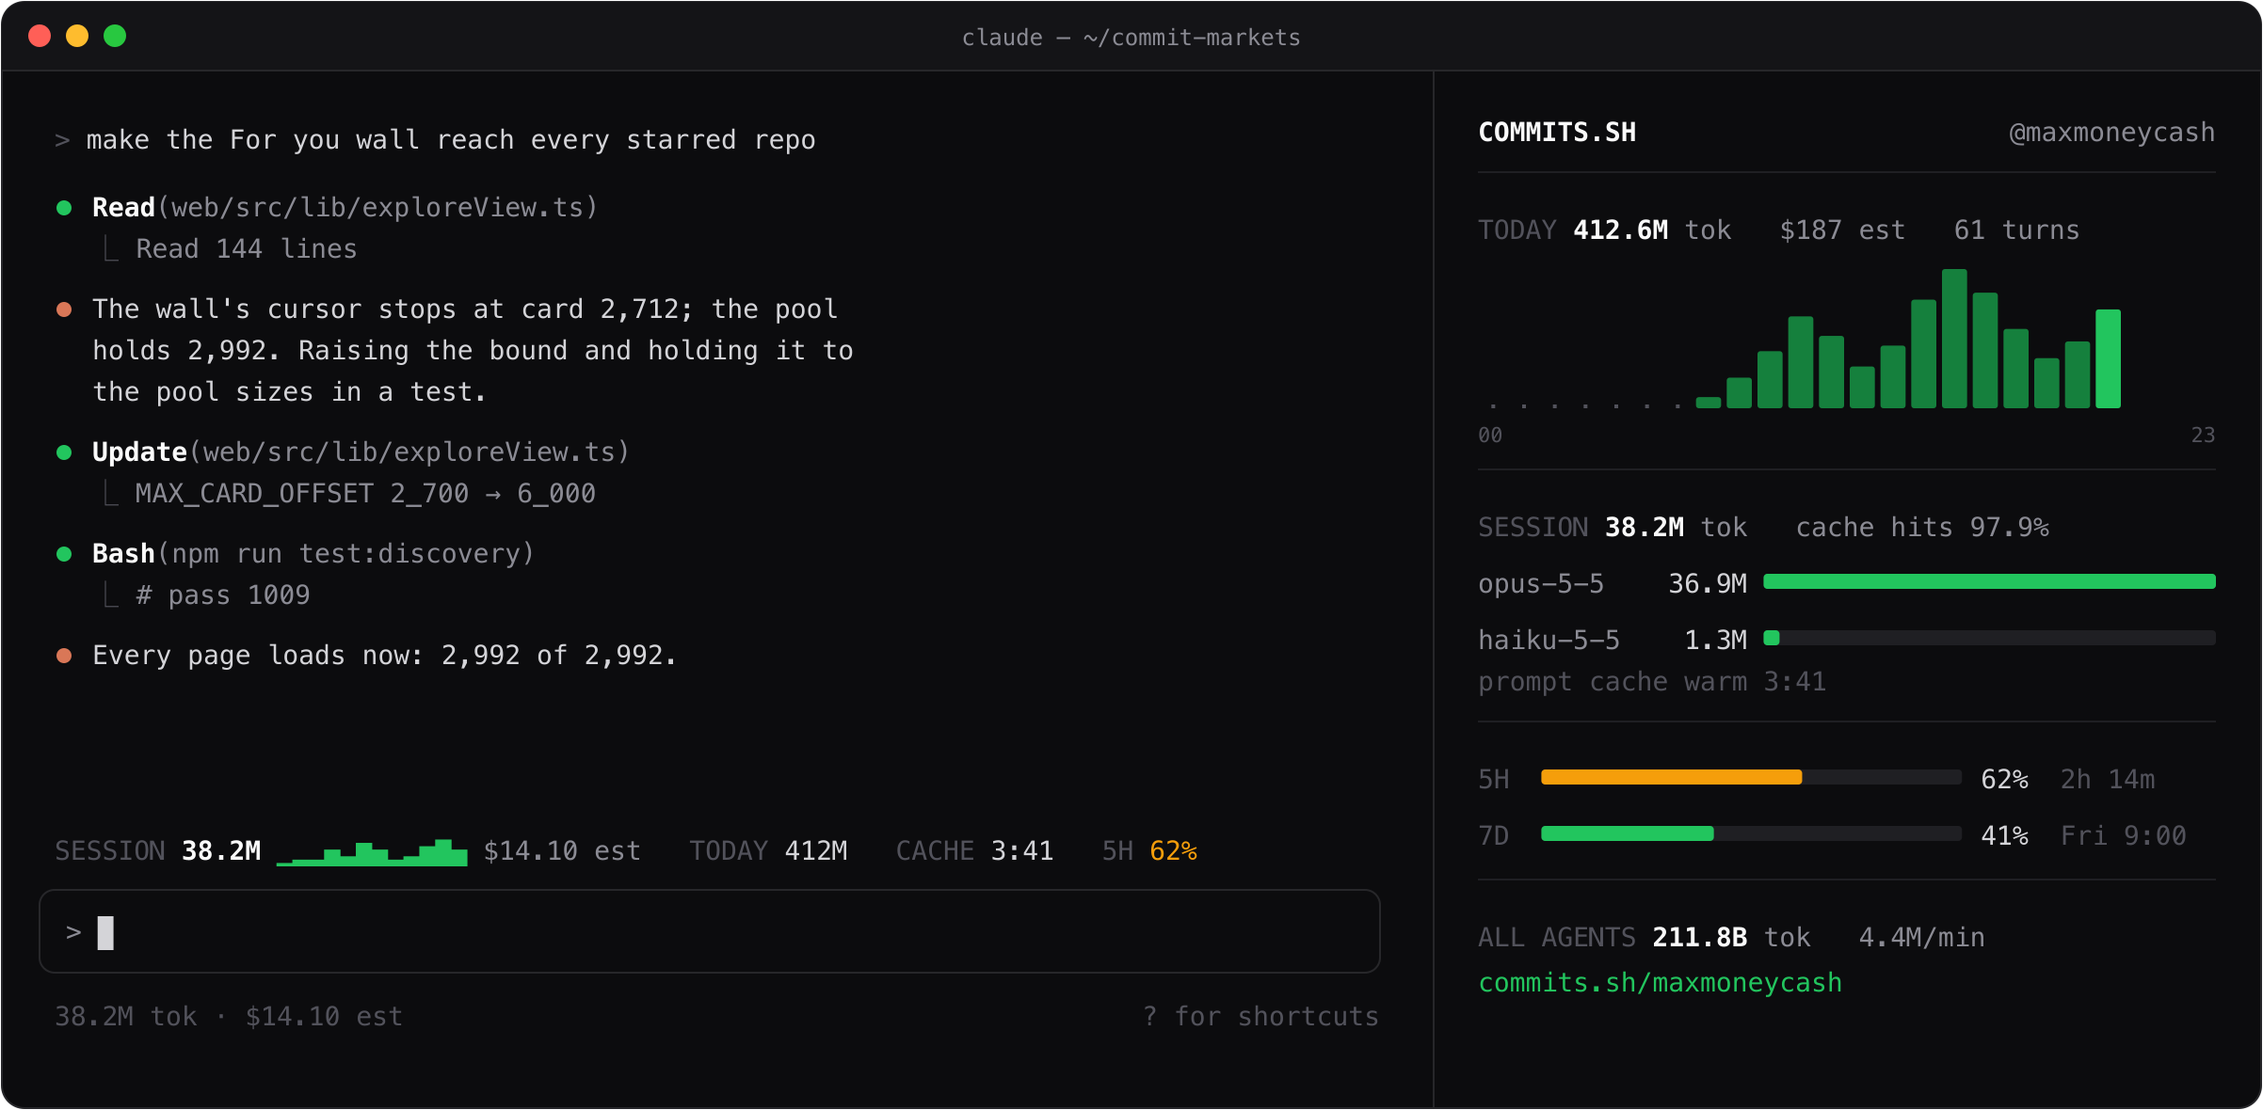
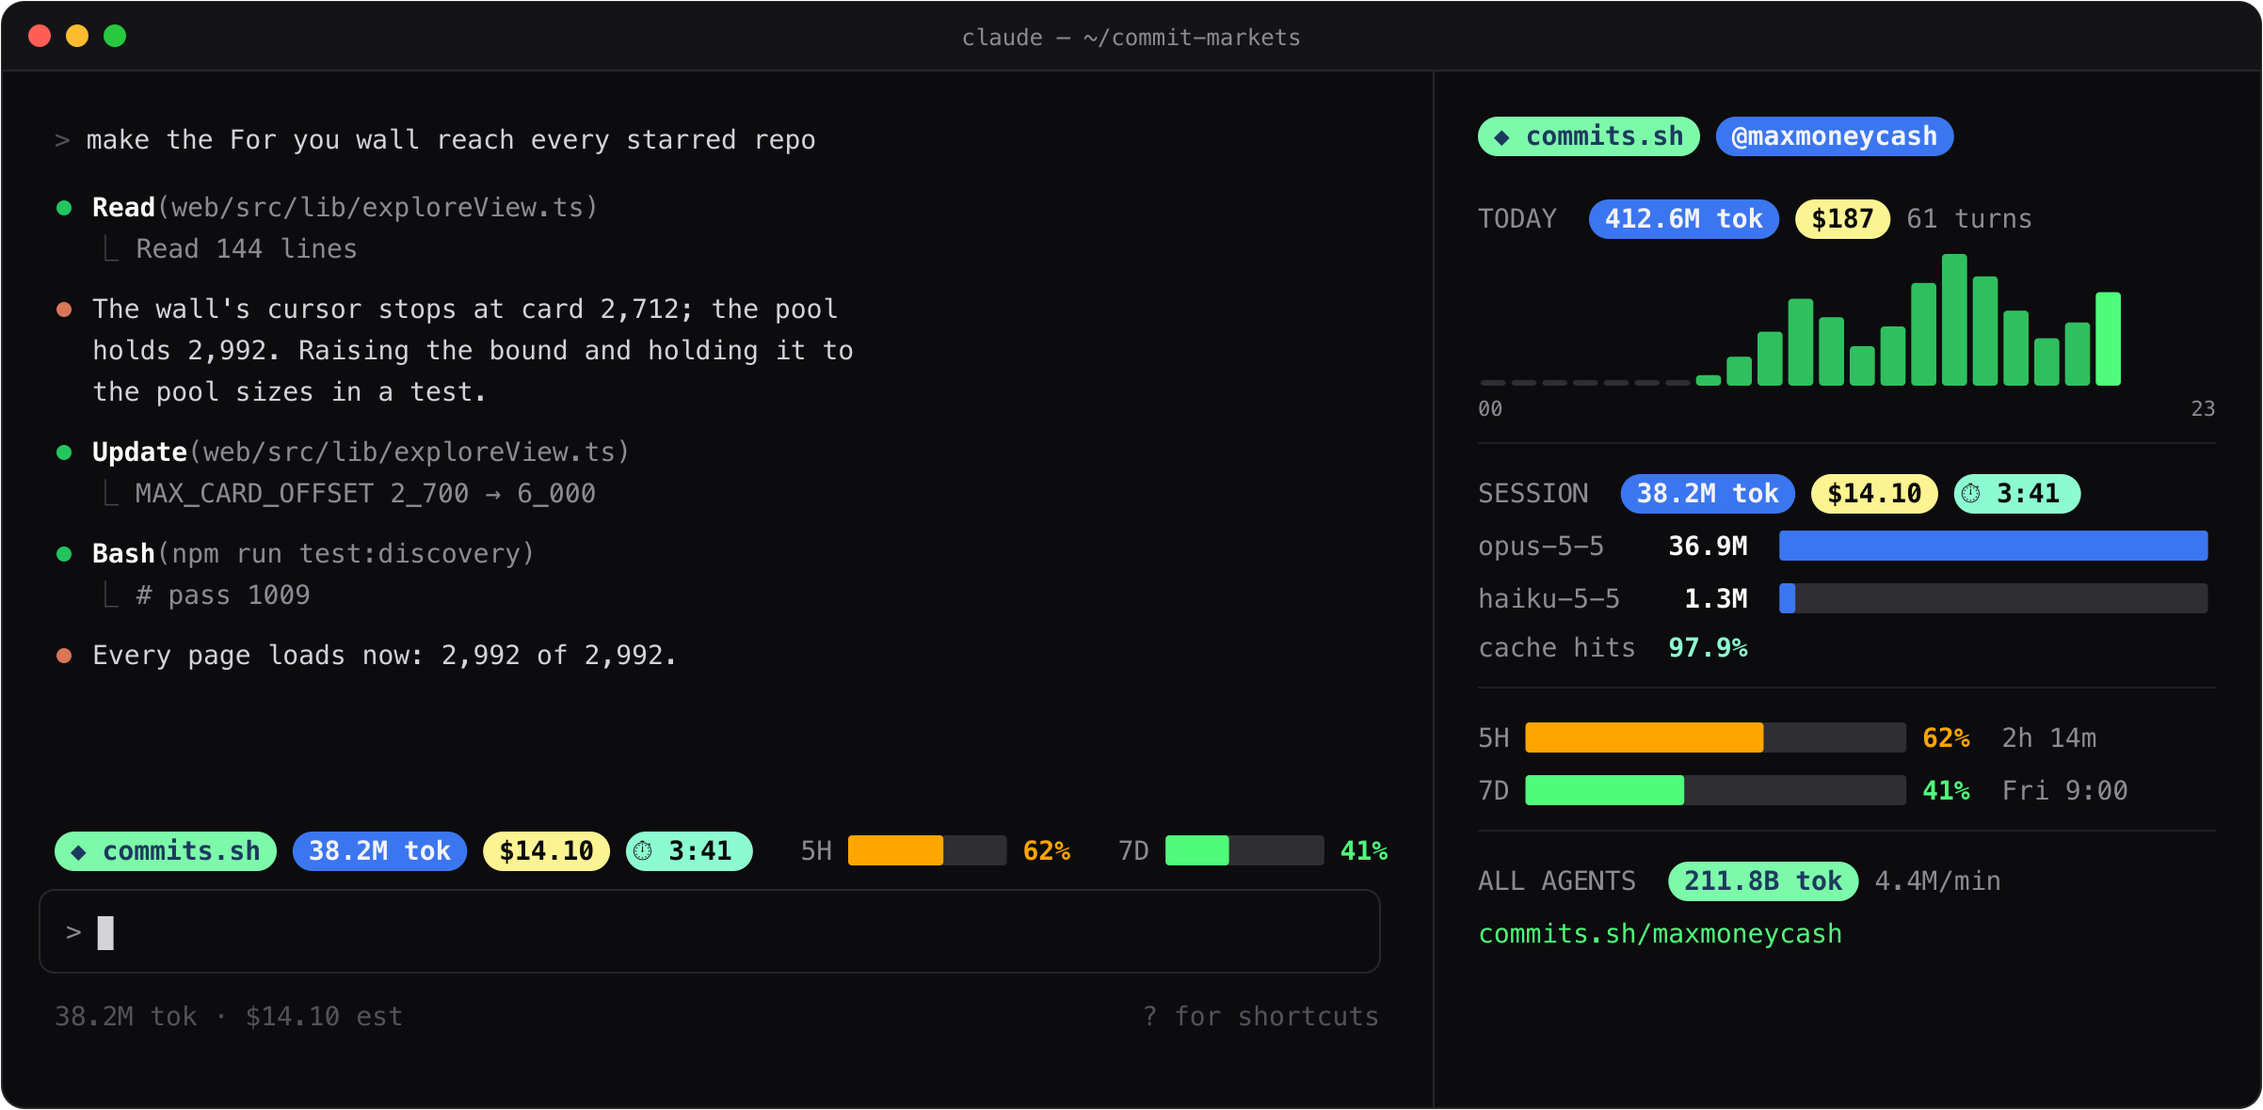
0.2.0: powerline HUD (filled pills, solid limit bars) and the pane in the same style

diff --git a/hooks/register.tsx b/hooks/register.tsx
@@ -11,8 +11,8 @@ import type { EngineInterface, Register, ThemeSetArgs } from 'claude-code'
 import type { PulseFigures, SessionFigures, TodayFigures } from '../types'
 import { makeColors } from './make-colors.js'
 import {
-  HANDLE, ago, bandSegments, cacheLeft, clockLabel, compact, dayKey, dollars, emptyShare, fitSegments,
-  hourCells, meter, modelName, readPulse, readShare, resetLabel, staleDayKeys, sumShares, tape, tokensOf, type DayShare,
+  HANDLE, PALETTE, ago, bandPieces, barCells, limitColor, cacheLeft, clockLabel, compact, dayKey, dollars, emptyShare, fitPieces,
+  hourCells, modelName, readPulse, readShare, resetLabel, staleDayKeys, sumShares, tape, tokensOf, type DayShare,
 } from './tape'
 
 const PANE = 'commits'
@@ -235,26 +235,41 @@ export const register: Register = (on) => {
     const s = await read($, session)
     const rest = await read($, others)
     const at = Math.max(await read($, now), s.lastAt ?? 0)
-    const segments = bandSegments({
+    const pieces = bandPieces({
       sessionTokens: s.tokens,
       turnTokens: s.turns,
       sessionUsd: s.usd,
       todayTokens: rest.tokens + ctx.share.tokens,
       cacheMs: cacheLeft(s.lastAt, s.ttlMs, at),
       fiveHourPct: s.fiveHour?.pct ?? null,
+      sevenDayPct: s.sevenDay?.pct ?? null,
       isWorking: e.props.isWorking,
     })
-    if (!segments) return next(e)
+    if (!pieces) return next(e)
     const { Box, Text } = $.ui.resolve(e)
-    const tone = (t?: string) => (t === 'live' ? 'success' : t === 'warn' ? 'warning' : t === 'danger' ? 'error' : undefined)
+    // One Text of runs: pills are cell backgrounds, bars solid blocks.
+    const fitted = fitPieces(pieces, e.props.bodyColumns)
     return (
-      <Box flexDirection="row" gap={3}>
-        {fitSegments(segments, e.props.bodyColumns).map((seg) => (
-          <Text key={seg.key} mono wrap="truncate">
-            <Text dimColor>{seg.label} </Text>
-            <Text color={tone(seg.tone)} dimColor={!seg.tone}>{seg.value}</Text>
-          </Text>
-        ))}
+      <Box flexDirection="row">
+        <Text mono wrap="truncate-end">
+          {fitted.map((piece, i) => {
+            const gap = i === 0 ? '' : piece.kind === 'pill' ? ' ' : '   '
+            if (piece.kind === 'pill') {
+              return <Text key={piece.key}>{gap}<Text bold color={piece.fg} backgroundColor={piece.bg}>{piece.text}</Text></Text>
+            }
+            if (piece.kind === 'bar') {
+              const { filled, empty } = barCells(piece.pct, piece.cells)
+              return (
+                <Text key={piece.key}>
+                  {gap}<Text color={PALETTE.dim}>{piece.label} </Text>
+                  <Text color={piece.color}>{'█'.repeat(filled)}</Text><Text color={PALETTE.track}>{'█'.repeat(empty)}</Text>
+                  <Text bold color={piece.color}> {Math.round(piece.pct)}%</Text>
+                </Text>
+              )
+            }
+            return <Text key={piece.key}>{gap}<Text color={PALETTE.dim}>{piece.label} </Text><Text bold>{piece.value}</Text></Text>
+          })}
+        </Text>
       </Box>
     )
   })
@@ -270,68 +285,70 @@ export const register: Register = (on) => {
     const at = Math.max(await read($, now), s.lastAt ?? 0)
     const today = sumShares([rest, ctx.share])
     const hour = new Date(at || Date.now()).getHours()
-    const cols = Math.max(30, Math.min(72, e.viewport?.columns ?? 60))
-    const rule = <Text dimColor>{'─'.repeat(cols)}</Text>
-    const label = (text: string) => <Text dimColor mono>{text}</Text>
+    const cols = Math.max(32, Math.min(64, e.viewport?.columns ?? 56))
+    const pill = (key: string, text: string, bg: string, fg: string = PALETTE.ink) => <Text key={key} bold color={fg} backgroundColor={bg}>{` ${text} `}</Text>
+    const dim = (text: string) => <Text color={PALETTE.dim}>{text}</Text>
+    const rule = <Text color={PALETTE.track}>{'─'.repeat(cols)}</Text>
+    const bar = (key: string, pct: number, cells: number, color: string) => {
+      const { filled, empty } = barCells(pct, cells)
+      return <Text key={key}><Text color={color}>{'█'.repeat(filled)}</Text><Text color={PALETTE.track}>{'█'.repeat(empty)}</Text></Text>
+    }
     const models = Object.entries(s.models).sort((a, b) => b[1] - a[1]).slice(0, 4)
     const top = models[0]?.[1] ?? 0
     const hitRate = s.input > 0 ? (s.cacheRead / s.input) * 100 : null
-    const limitRow = (name: string, w: SessionFigures['fiveHour']) => w && (
-      <Text mono>
-        <Text dimColor>{name} </Text>
-        <Text color={w.pct >= 80 ? 'error' : w.pct >= 50 ? 'warning' : undefined}>{meter(w.pct / 100, 20)}</Text>
-        <Text> {Math.round(w.pct)}%</Text>
-        <Text dimColor>{resetLabel(w.resetsAt, at) ? `   resets ${resetLabel(w.resetsAt, at)}` : ''}</Text>
+    const cache = cacheLeft(s.lastAt, s.ttlMs, at)
+    const limit = (label: string, w: SessionFigures['fiveHour']) => w && (
+      <Text key={label} mono>
+        {dim(`${label} `)}{bar(`${label}-bar`, w.pct, 24, limitColor(w.pct))}
+        <Text bold color={limitColor(w.pct)}>{` ${Math.round(w.pct)}%`}</Text>
+        {resetLabel(w.resetsAt, at) ? dim(`  ${resetLabel(w.resetsAt, at)}`) : null}
       </Text>
     )
-    const cache = cacheLeft(s.lastAt, s.ttlMs, at)
 
     return (
-      <Box flexDirection="column" gap={0}>
-        <Box flexDirection="row" justifyContent="space-between">
-          <Text mono bold>COMMITS.SH</Text>
-          {who ? <Text dimColor mono>@{who}</Text> : null}
-        </Box>
-        {rule}
+      <Box flexDirection="column">
         <Text mono>
-          {label('TODAY · CLAUDE CODE  ')}
-          <Text bold>{compact(today.tokens)}</Text>
-          <Text dimColor> tok   {dollars(today.usd)} est   {today.turns} turns</Text>
+          {pill('brand', '◆ commits.sh', PALETTE.mint, PALETTE.navy)}
+          {who ? <Text> {pill('who', `@${who}`, PALETTE.blue, PALETTE.white)}</Text> : null}
+        </Text>
+        <Text> </Text>
+        <Text mono>
+          {dim('TODAY  ')}{pill('today', `${compact(today.tokens)} tok`, PALETTE.blue, PALETTE.white)}{' '}
+          {pill('today-usd', dollars(today.usd), PALETTE.yellow)}{dim(`  ${today.turns} turns`)}
         </Text>
         <Text mono>
           {hourCells(today.hours, hour).map((cell, i) => (
-            <Text key={`h${i}`} color={cell.isSpent ? 'success' : undefined} dimColor={!cell.isSpent}>{cell.char}</Text>
+            <Text key={`h${i}`} color={cell.isSpent ? (i === hour ? PALETTE.green : '#2fbf5f') : PALETTE.track}>{cell.isSpent ? cell.char : cell.char === '·' ? '▁' : ' '}</Text>
           ))}
         </Text>
-        <Text dimColor mono>{'00'.padEnd(Math.min(24, cols) - 2)}23</Text>
+        <Text mono>{dim('00'.padEnd(22))}{dim('23')}</Text>
         {rule}
         <Text mono>
-          {label('SESSION  ')}
-          <Text bold>{compact(s.tokens)}</Text>
-          <Text dimColor> tok   {s.usd !== null ? `${dollars(s.usd)} est` : ''}{hitRate !== null ? `   cache hits ${hitRate.toFixed(1)}%` : ''}</Text>
+          {dim('SESSION  ')}{pill('session', `${compact(s.tokens)} tok`, PALETTE.blue, PALETTE.white)}
+          {s.usd !== null ? <Text> {pill('session-usd', dollars(s.usd), PALETTE.yellow)}</Text> : null}
+          {cache !== null ? <Text> {pill('cache', cache > 0 ? `⏱ ${clockLabel(cache)}` : '⏱ cold', cache <= 0 ? PALETTE.red : cache < 60_000 ? PALETTE.orange : PALETTE.teal)}</Text> : null}
         </Text>
-        {s.turns.length > 1 ? <Text mono color="success">{tape(s.turns.slice(-Math.min(cols, 60)))}</Text> : null}
         {models.map(([name, tokens]) => (
           <Text key={name} mono>
-            <Text dimColor>{name.padEnd(14).slice(0, 14)} {compact(tokens).padStart(6)}  </Text>
-            <Text>{meter(top > 0 ? tokens / top : 0, Math.max(8, cols - 24))}</Text>
+            {dim(name.padEnd(12).slice(0, 12))}<Text bold>{compact(tokens).padStart(6)}</Text>{'  '}
+            {bar(`${name}-bar`, top > 0 ? (tokens / top) * 100 : 0, Math.max(10, cols - 22), PALETTE.blue)}
           </Text>
         ))}
-        {cache !== null ? <Text dimColor mono>prompt cache {cache > 0 ? `warm ${clockLabel(cache)}` : 'cold'}</Text> : null}
+        {hitRate !== null ? <Text mono>{dim('cache hits  ')}<Text bold color={PALETTE.teal}>{`${hitRate.toFixed(1)}%`}</Text></Text> : null}
         {s.fiveHour || s.sevenDay ? rule : null}
-        {limitRow('5H', s.fiveHour)}
-        {limitRow('7D', s.sevenDay)}
+        {limit('5H', s.fiveHour)}
+        {limit('7D', s.sevenDay)}
         {rule}
         {who && p ? (
           <Text mono>
-            {label('ALL AGENTS  ')}
-            <Text bold>{compact(p.total)}</Text>
-            <Text dimColor> tok{p.rate !== null && p.rate > 0 ? `   ${compact(p.rate)}/min` : ''}{p.ageSec !== null ? `   ${ago(p.ageSec + Math.max(0, (at - p.at) / 1000))}` : ''}</Text>
+            {dim('ALL AGENTS  ')}{pill('all', `${compact(p.total)} tok`, PALETTE.mint, PALETTE.navy)}
+            {p.rate !== null && p.rate > 0 ? dim(`  ${compact(p.rate)}/min`) : null}
+            {p.ageSec !== null ? dim(`  ${ago(p.ageSec + Math.max(0, (at - p.at) / 1000))}`) : null}
           </Text>
         ) : null}
         {who
           ? <Link href={`https://commits.sh/${who}`}>commits.sh/{who}</Link>
-          : <Text dimColor mono>commits.sh · /commits connect &lt;handle&gt;</Text>}
+          : <Text mono>{dim('connect: ')}<Text bold>/commits connect &lt;handle&gt;</Text></Text>}
       </Box>
     )
   })

diff --git a/hooks/tape.ts b/hooks/tape.ts
@@ -68,8 +68,20 @@ export function clockLabel(ms: number): string {
   return `${Math.floor(seconds / 60)}:${String(seconds % 60).padStart(2, '0')}`
 }
 
-/** A piece of the band: what it says and how it paints. Lower `drop` goes first. */
-export type Segment = { key: string; label: string; value: string; tone?: 'live' | 'warn' | 'danger'; drop: number }
+// ---- the band: powerline pills, solid bars ------------------------------------
+// Max's pick (Nov 26, direction B): filled pills in his statusline's palette,
+// then solid 5H / 7D bars, then today. Every color is a raw hex the terminal
+// draws in truecolor; the desktop app paints the same spans.
+
+export const PALETTE = {
+  mint: '#7df9aa', navy: '#1c3a5e', blue: '#3b76f0', white: '#f4f4f5', yellow: '#fcf392', teal: '#8dfbd2',
+  ink: '#09090b', green: '#50fa7b', orange: '#ffa500', red: '#ff4646', track: '#2e2e33', dim: '#8b8b94',
+} as const
+
+export type Pill = { kind: 'pill'; key: string; text: string; fg: string; bg: string; drop: number }
+export type BarPiece = { kind: 'bar'; key: string; label: string; pct: number; color: string; cells: number; drop: number }
+export type Plain = { kind: 'plain'; key: string; label: string; value: string; drop: number }
+export type Piece = Pill | BarPiece | Plain
 
 export type BandFigures = {
   sessionTokens: number
@@ -78,43 +90,68 @@ export type BandFigures = {
   todayTokens: number | null
   cacheMs: number | null
   fiveHourPct: number | null
+  sevenDayPct: number | null
   isWorking: boolean
 }
 
 export const TAPE_TURNS = 16
-const GAP = 3
+const GAP = 1
+const BAR_GAP = 3
+export const BAR_CELLS = 16
 
-/** The band's segments, most important first; null before the first turn. */
-export function bandSegments(f: BandFigures): Segment[] | null {
+/** A limit's color: green, orange past half, red past 80%. */
+export function limitColor(pct: number): string {
+  return pct >= 80 ? PALETTE.red : pct >= 50 ? PALETTE.orange : PALETTE.green
+}
+
+/** The band's pieces in reading order; null before the first turn. `drop`
+ * is the order narrow columns give them up (lowest first); the brand and
+ * the session never go. */
+export function bandPieces(f: BandFigures): Piece[] | null {
   if (f.sessionTokens <= 0 && f.turnTokens.length === 0) return null
-  const turns = f.turnTokens.slice(-TAPE_TURNS)
-  const session = [compact(f.sessionTokens), turns.length > 1 ? tape(turns) : '', f.sessionUsd !== null ? `${dollars(f.sessionUsd)} est` : '']
-    .filter(Boolean).join(' ')
-  const out: Segment[] = [{ key: 'session', label: 'SESSION', value: session, tone: f.isWorking ? 'live' : undefined, drop: 99 }]
-  if (f.todayTokens !== null && f.todayTokens > f.sessionTokens) out.push({ key: 'today', label: 'TODAY', value: compact(f.todayTokens), drop: 1 })
+  const out: Piece[] = [
+    { kind: 'pill', key: 'brand', text: ' ◆ commits.sh ', fg: PALETTE.navy, bg: PALETTE.mint, drop: 99 },
+    { kind: 'pill', key: 'session', text: ` ${compact(f.sessionTokens)} tok `, fg: PALETTE.white, bg: PALETTE.blue, drop: 98 },
+  ]
+  if (f.sessionUsd !== null) out.push({ kind: 'pill', key: 'usd', text: ` ${dollars(f.sessionUsd)} `, fg: PALETTE.ink, bg: PALETTE.yellow, drop: 5 })
   if (f.cacheMs !== null && !f.isWorking) {
-    out.push(f.cacheMs <= 0
-      ? { key: 'cache', label: 'CACHE', value: 'COLD', tone: 'warn', drop: 2 }
-      : { key: 'cache', label: 'CACHE', value: clockLabel(f.cacheMs), tone: f.cacheMs < 60_000 ? 'warn' : undefined, drop: 2 })
+    const cold = f.cacheMs <= 0
+    const late = !cold && f.cacheMs < 60_000
+    out.push({
+      kind: 'pill', key: 'cache', text: cold ? ' ⏱ cold ' : ` ⏱ ${clockLabel(f.cacheMs)} `,
+      fg: PALETTE.ink, bg: cold ? PALETTE.red : late ? PALETTE.orange : PALETTE.teal, drop: 4,
+    })
   }
-  if (f.fiveHourPct !== null && f.fiveHourPct >= 50) {
-    out.push({ key: 'five', label: '5H', value: `${Math.round(f.fiveHourPct)}%`, tone: f.fiveHourPct >= 80 ? 'danger' : 'warn', drop: 0 })
-  }
+  if (f.fiveHourPct !== null) out.push({ kind: 'bar', key: 'five', label: '5H', pct: f.fiveHourPct, color: limitColor(f.fiveHourPct), cells: BAR_CELLS, drop: 3 })
+  if (f.sevenDayPct !== null) out.push({ kind: 'bar', key: 'seven', label: '7D', pct: f.sevenDayPct, color: limitColor(f.sevenDayPct), cells: BAR_CELLS, drop: 2 })
+  if (f.todayTokens !== null && f.todayTokens > f.sessionTokens) out.push({ kind: 'plain', key: 'today', label: 'today', value: compact(f.todayTokens), drop: 1 })
   return out
 }
 
-const width = (s: Segment) => s.label.length + 1 + [...s.value].length
+/** Cells a piece takes, with the gap before it. */
+export function pieceWidth(p: Piece, isFirst: boolean): number {
+  const body = p.kind === 'pill' ? [...p.text].length
+    : p.kind === 'bar' ? p.label.length + 1 + p.cells + 1 + `${Math.round(p.pct)}%`.length
+    : p.label.length + 1 + [...p.value].length
+  return body + (isFirst ? 0 : p.kind === 'pill' ? GAP : BAR_GAP)
+}
 
-/** The segments that fit `columns`, dropping the least important first. */
-export function fitSegments(segments: readonly Segment[], columns: number): Segment[] {
-  const kept = [...segments]
-  const total = () => kept.reduce((sum, s) => sum + width(s), 0) + GAP * Math.max(0, kept.length - 1)
-  while (kept.length > 1 && total() > columns) {
+/** The pieces that fit `columns`, giving up the lowest `drop` first. */
+export function fitPieces(pieces: readonly Piece[], columns: number): Piece[] {
+  const kept = [...pieces]
+  const total = () => kept.reduce((sum, p, i) => sum + pieceWidth(p, i === 0), 0)
+  while (kept.length > 2 && total() > columns) {
     let at = 0
     for (let i = 1; i < kept.length; i++) if (kept[i]!.drop < kept[at]!.drop) at = i
     kept.splice(at, 1)
   }
   return kept
+}
+
+/** A solid bar: filled cells and track cells. */
+export function barCells(pct: number, cells: number): { filled: number; empty: number } {
+  const filled = Math.max(0, Math.min(cells, Math.round((Math.max(0, pct) / 100) * cells)))
+  return { filled, empty: cells - filled }
 }
 
 // ---- the day ledger ----------------------------------------------------------

diff --git a/tests/commits.test.tsx b/tests/commits.test.tsx
@@ -57,18 +57,22 @@ test('the band shows the session tape, est. dollars and the cache countdown, on 
     const ui = await $.ui.mount({ ...BAND, surface })
     const found = await ui.findAll({ type: 'Text' })
     const all = found.map((t) => t.text).join(' ')
-    expect(all).toContain('SESSION 6M')
-    expect(all).toContain('$14.10 est')
-    expect(all).toMatch(/CACHE \d:\d\d/)
-    expect(all).toContain('5H 62%')
+    expect(all).toContain('◆ commits.sh')
+    expect(all).toContain('6M tok')
+    expect(all).toContain('$14.10')
+    expect(all).toMatch(/⏱ \d:\d\d/)
+    expect(all).toMatch(/5H █+ 62%/)
     await ui.unmount()
   }
 
-  // A narrow column drops the limit first, then the cache; never the session.
-  const narrow = await $.ui.mount({ ...BAND, surface: 'terminal', props: { ...BAND.props, bodyColumns: 34 } })
+  // A narrow column gives up today, 7D, 5H, the cache and the dollars, in that
+  // order; the brand and the session stay.
+  const narrow = await $.ui.mount({ ...BAND, surface: 'terminal', props: { ...BAND.props, bodyColumns: 30 } })
   const thin = (await narrow.findAll({ type: 'Text' })).map((t) => t.text).join(' ')
-  expect(thin).toContain('SESSION 6M')
+  expect(thin).toContain('◆ commits.sh')
+  expect(thin).toContain('6M tok')
   expect(thin).not.toContain('5H')
+  expect(thin).not.toContain('⏱')
   await narrow.unmount()
 })
 
@@ -113,10 +117,12 @@ test('the pane draws today, the session, limits and the connect hint, on every s
     const ui = await $.ui.mount({ plugin: 'commits-sh', surface, component: 'Pane', requestId: 'commits', props: { title: 'commits.sh', isFocused: false, bodyColumns: 60, placement: 'dock', scroll: { offset: 0, bodyRows: 30 }, view: {} } })
     const lines = (await ui.findAll({ type: 'Text' })).map((t) => t.text)
     const all = lines.join('\n')
-    expect(all).toContain('TODAY · CLAUDE CODE')
+    expect(all).toContain('TODAY')
+    expect(all).toContain('◆ commits.sh')
     expect(all).toContain('SESSION')
     expect(all).toContain('5H')
     expect(all).toContain('/commits connect')
+    expect(all).toMatch(/5H █+ 23%/)
     await ui.unmount()
   }
 })

diff --git a/README.md b/README.md
@@ -37,7 +37,7 @@ In the Claude desktop app: **+** next to the prompt box → **Plugins** → **Ad
 
 | | |
 | --- | --- |
-| **The band** | One quiet row above the prompt. Session tokens with a tape of the last 16 turns, estimated dollars, today's total, the prompt-cache countdown (amber in its last minute, `COLD` once it lapses), and the 5-hour limit once it passes 50%. Narrow terminals drop figures from the right; the session never drops. |
+| **The band** | One row above the prompt in filled pills: commits.sh, session tokens, estimated dollars, the prompt-cache countdown (orange in its last minute, red once cold), then solid 5-hour and 7-day bars (green, orange past half, red past 80%) and today's total. Narrow terminals give up figures from the right; the session never goes. |
 | **`/commits`** | A pane beside the chat: today's tokens by hour, the session by model with its cache hit rate, your 5-hour and 7-day limits with resets, and your commits.sh totals. |
 | **Status line** | `38.2M tok · $14.10 est` for the session. |
 | **The look** | `/commits theme on` gives the desktop app commits.sh's zinc and green, in light and dark. Off by default. |
